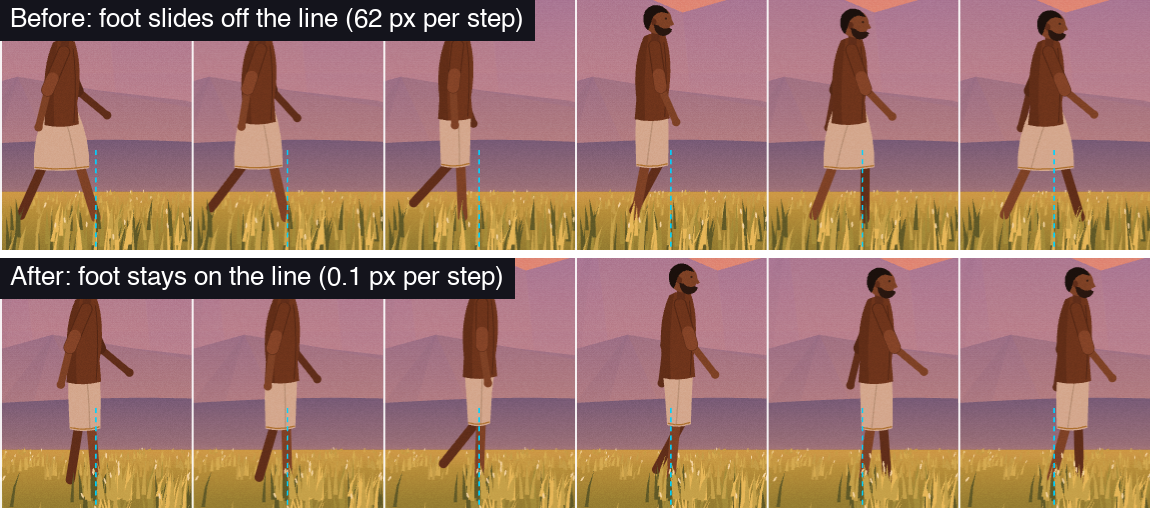
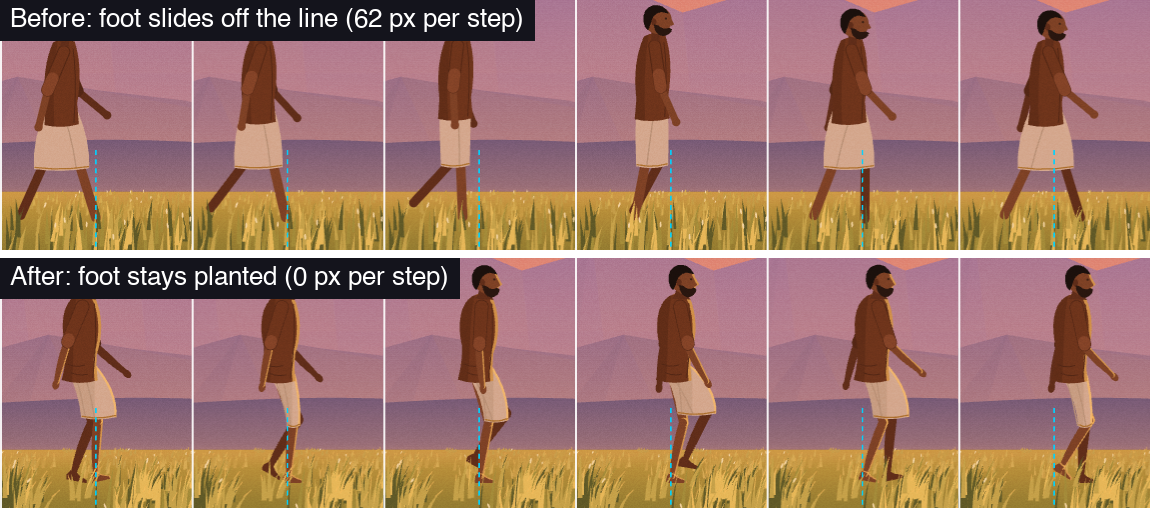
Docs: README for the new field, walk and tests; critique status; final comparisons

Changed region(s): [[0.0, 0.502, 1.0, 1.0], [0.9435, 0.5315, 0.9739, 0.561], [0.913, 0.502, 0.9435, 0.5315]]

diff --git a/README.md b/README.md
@@ -19,6 +19,10 @@ npm run dev
 
 Build for hosting with `npm run build`. The output is in `dist/`.
 
+Run the regression tests with `npm test`. They render every preset, every
+control extreme and several screen sizes headlessly, and check for NaN
+geometry, sliding feet and paws, and config save/load.
+
 ## The dev panel
 
 Add `?dev` to the URL to load it. Visitors never download it.
@@ -66,9 +70,9 @@ src/
     sky.js             sky gradient, sun or moon, stars
     clouds.js          painted cumulus clouds
     terrain.js         mountains with facets, hills, treeline, coconut palms
-    field.js           three grass bands, batched by colour
-    character.js       the man: rig, walk cycle, shirt and mundu
-    dog.js             Juhu: state machine, walk and trot gaits
+    field.js           grass: clumped blades, cached undergrowth, wind, parting
+    character.js       the man: IK rig, feet, walk cycle, cloth springs, rim light
+    dog.js             Juhu: state machine, IK legs, walk and trot gaits
     life.js            birds, rain, leaves, haze, mist, light, paint grain
   controls/
     ControlPanel.js    Tweakpane panel (dev only)
@@ -90,15 +94,33 @@ Same seed, same world. "New layout" in the grass group picks a new seed.
 man and Juhu. The mid and front bands sit in front, which hides their
 lower legs.
 
-**The walk.** One phase value drives the legs, arms, torso bob and fabric.
-Walk speed (ground travel) and cadence (steps) are separate controls.
+**The field.** Each band has an undergrowth layer (staggered rows of fine
+tufts) under its blades, so the ground never shows through. Undergrowth is
+painted once into an offscreen bitmap per band and reused; it is redrawn
+only when the view, colours or grass settings change. Blades grow in
+fanned clumps, curve more towards the tip, and lean in a wind made of
+noise drifting downwind, so gusts roll across in patches. Blades part
+around the man's legs and Juhu's paws. Controls: **clumping** and
+**undergrowth** in the grass group.
+
+**The walk.** One phase value drives the legs, arms, torso and fabric, and
+it advances with distance walked, not time, so the legs can never run
+ahead of the ground. Walk speed and cadence (steps) are the controls;
+step length follows from them. Each foot rolls heel, flat, toe while it is
+down, and its pivot point stays fixed on the ground (two-bone IK). Hip
+height comes from the planted leg, so the body rises over each step and
+dips between them. Shoulders counter-rotate against the hips, the head
+stays level, and the mundu hem and shirt tail follow on springs. The
+**stride** control now sets how high the knee lifts. A low sun puts a rim
+light on the side of the figure that faces it.
 
 **Juhu.** Her states are `absent → approaching → together → departing`.
 She trots to catch up, eases into a walk beside him, walks one screen width
 with him, then trots ahead and leaves. She is gone for two crossings, then
 returns. Her first visit comes 20 seconds after load. Her walk uses a
-four-beat pattern; her trot moves diagonal legs together. Leg speed is tied
-to ground speed, so her feet don't skate.
+four-beat pattern; her trot moves diagonal legs together. Her legs use the
+same IK planting as the man's, so paws stay put while they carry weight.
+Her tail and ears follow her body on springs.
 
 **Sound.** All generated, so nothing to license. Wind is shaped noise that
 rises with the wind setting. Rain is filtered noise. Chirps play when a

diff --git a/docs/visual-critique.md b/docs/visual-critique.md
@@ -131,6 +131,24 @@ light are good details.
 Suggested order: 1 → 3 → 2 → 5/6 → 4 → 7 → 8. Items 1 and 3 alone fix the
 two things visitors will notice first.
 
+## Status (16 Oct 2026)
+
+All ten recommendations are implemented; `npm test` covers the measurable
+ones. Before/after captures are in `docs/compare/`.
+
+| # | Result |
+| --- | --- |
+| 1 | Gait advances with distance. Planted-foot slide: 61.7 px → 0 px per step. |
+| 2 | Feet drawn; heel–toe roll with IK; pivot point fixed on the ground (tested < 1 px). |
+| 3 | Undergrowth layer plus clumps. After visitor feedback ("hay fields are more continuous") the undergrowth became the body of the field. |
+| 4 | Curved, tapered blades; noise-field wind with per-blade stiffness; haze on far grass; backlit tips. |
+| 5 | Tapered limbs with calf and forearm shape, S-curve torso, drape creases, egg-shaped head, tapered neck. |
+| 6 | Hip height from the planted leg; shoulder counter-rotation; forward lean; level head. |
+| 7 | Springs on mundu hem, shirt tail, Juhu's tail and ears; forearms trail. |
+| 8 | Grass parts around legs and paws; sun-side rim light on the figure. |
+| 9 | Undergrowth cached as bitmaps. Median frame 26 ms vs 54 ms for v0.1 in the same browser; 60 fps live. |
+| 10 | Juhu's paws use the same IK planting (tested < 2 px). |
+
 ## 5. A light study to confirm this with real visitors
 
 - **Who:** 5–6 people who don't know the project. Include at least two
